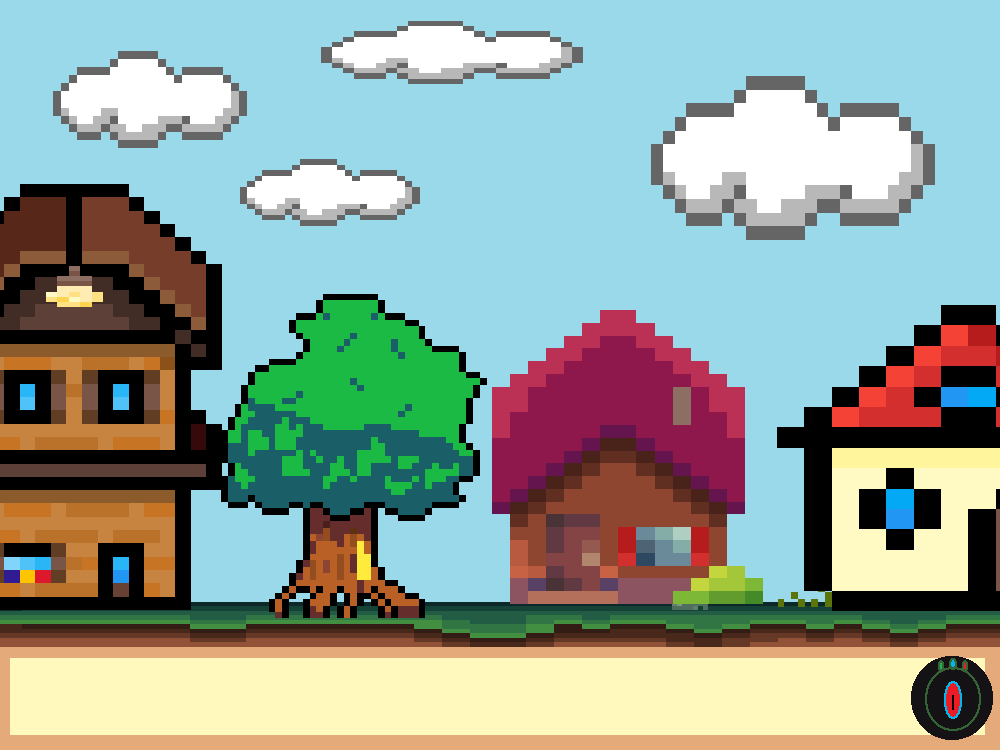
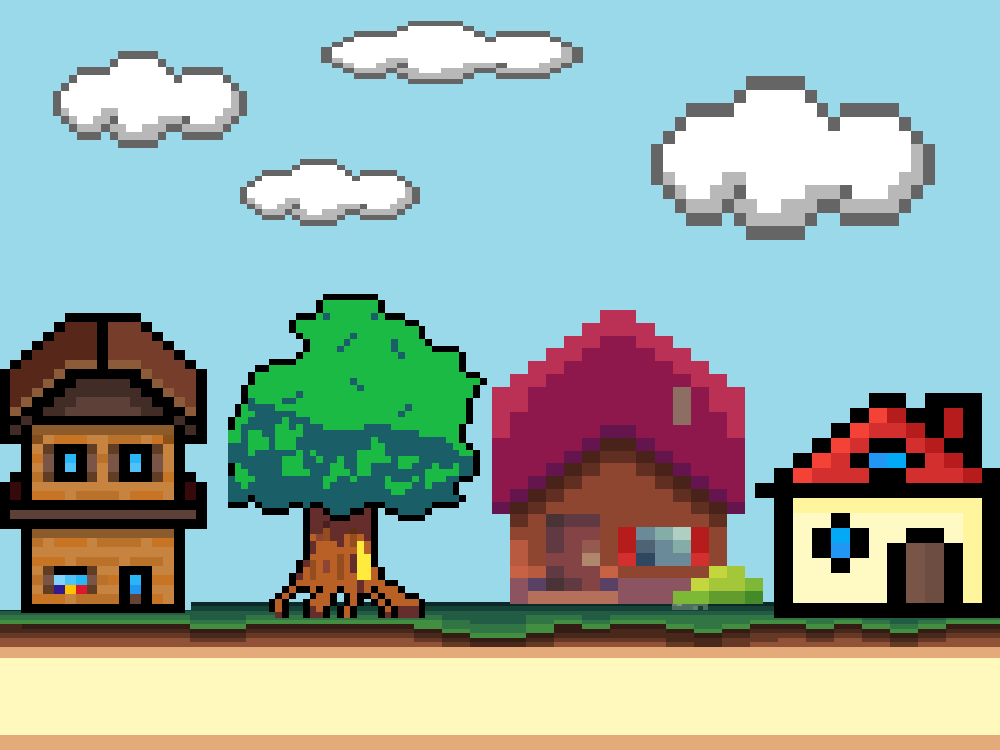
bug fix and bg move

diff --git a/main.py b/main.py
@@ -146,6 +146,7 @@ boss_4 = False
 
 #_ setting vars
 bg = pygame.image.load("pyg/bg1.png")
+bg_x = 0
 
 bs = pygame.mixer.Sound("pyg/bullet.mp3")
 dd = pygame.mixer.Sound("pyg/hit.mp3")
@@ -310,7 +311,6 @@ bullets = []
 
 #_ clock
 clock = pygame.time.Clock()
-clock.tick(18)
 
 
 #_ blow
@@ -548,7 +548,11 @@ def zaptack(zap_x, zap_y):
 #_ display update
 def updater():
     if d != 7 and d != 21 and d != 40 and d != 61 and not maze and d != 151:
-        screen.blit(bg, (0, 0))
+        screen.blit(bg, (bg_x, 0))
+        if bg_x > 0:
+            screen.blit(bg, (bg_x - 1000, 0))
+        else:
+            screen.blit(bg, (bg_x + 1000, 0))
         for bul in bullets:
             bul.draw(screen)
         enemy.draw(screen)
@@ -791,6 +795,7 @@ while True:
         mjp = 12
         spid.jumpcount = mjp
     if d == 41:
+        s = 0
         spid.y = 565
         spid.x = 500
         enemy.y = 565
@@ -1124,8 +1129,8 @@ while True:
                     pygame.mixer.music.play(-1)
                 if birdie.tr <= 1:
                     d = 10
-                rt = 0
-                birdie.tr += 1
+                    rt = 0
+                    birdie.tr += 1
         #_ delete out of map bullet
         else:
             try:
@@ -1352,11 +1357,15 @@ while True:
                 game_over = True
                 maze = False
                 spid.x = 0
+                pygame.mixer.music.load("pyg/Mus_chokedup.oga")
+                pygame.mixer.music.play(-1)
             if score >= 10:
                 justS = True
                 solved = True
                 maze = False
                 game_over = True
+                pygame.mixer.music.load("pyg/Mus_chokedup.oga")
+                pygame.mixer.music.play(-1)
             xsh += xs_change
             ysh += ys_change
             snake_Head = [xsh, ysh]
@@ -1368,6 +1377,8 @@ while True:
                     game_over = True
                     maze = False
                     spid.x = 0
+                    pygame.mixer.music.load("pyg/Mus_chokedup.oga")
+                    pygame.mixer.music.play(-1)
             foodhitbox = pygame.Rect(foodx, foody, snake_block, snake_block)
             if pygame.Rect.colliderect(foodhitbox, pygame.Rect(xsh, ysh, snake_block, snake_block)):
                 foodx = round(random.randrange(0, 1000 - snake_block) / 10.0) * 10.0
@@ -1451,6 +1462,8 @@ while True:
                 spid.x = 0
                 maze = False
                 game_over = True
+                pygame.mixer.music.load("pyg/Mus_chokedup.oga")
+                pygame.mixer.music.play(-1)
             if field[yp//block][xp//block] == 0:
                 smell = 0
             if field[yp//block][xp//block] == 2:
@@ -1459,11 +1472,15 @@ while True:
                 spid.x = 0
                 maze = False
                 game_over = True
+                pygame.mixer.music.load("pyg/Mus_chokedup.oga")
+                pygame.mixer.music.play(-1)
             if field[yp//block][xp//block] == 4:
                 justS = True
                 solved = True
                 maze = False
                 game_over = True
+                pygame.mixer.music.load("pyg/Mus_chokedup.oga")
+                pygame.mixer.music.play(-1)
             clock.tick(speed)
 
     #_ boss room 1
@@ -1478,6 +1495,7 @@ while True:
 
     #_ boss room 2
     if boss and room == 2:
+        d = 0
         if flyingBoss.pos == 0:
             if flyingBoss.x + flyingBoss.vel <= -200:
                 flyingBoss.x += flyingBoss.vel
@@ -1833,24 +1851,47 @@ while True:
         frag += 1
         spid.score += 9
 
-    if keys[pygame.K_RIGHT] and spid.x + spid.vel <= 1000 - 60 and not maze:
+    if keys[pygame.K_RIGHT] and spid.x + spid.vel <= 1000 - spid.width and not maze and not isWeb:
         spid.x += spid.vel
         spid.right = True
         spid.left = False
         spid.last = 0
-    elif keys[pygame.K_LEFT] and spid.x - spid.vel >= 0 and not isWeb and not maze:
+        if room != 5:
+            bg_x -= spid.vel
+            if bg_x <= -1000:
+                bg_x = 0
+            if d == 5:
+                bx -= 2
+            enemy.x -= 1
+            birdie.x -= 2
+        else:
+            bg_x = 0
+    if keys[pygame.K_LEFT] and spid.x - spid.vel >= 0 and not isWeb and not maze:
         spid.x -= spid.vel
         spid.right = False
         spid.left = True
         spid.last = 1
+        if room != 5:
+            bg_x += spid.vel
+            if bg_x >= 1000:
+                bg_x = 0
+            if d == 5:
+                bx += 2
+            enemy.x += 1
+            birdie.x += 2
+        else:
+            bg_x = 0
     else:
-        if spid.left:
-            spid.last = 1
-        elif spid.right:
-            spid.last = 0
-        spid.left = False
-        spid.right = False
-        spid.walkC = 0
+        if keys[pygame.K_RIGHT] and spid.x + spid.vel <= 1000 - spid.width and not maze and not isWeb:
+            q = 1
+        else:
+            if spid.left:
+                spid.last = 1
+            elif spid.right:
+                spid.last = 0
+            spid.left = False
+            spid.right = False
+            spid.walkC = 0
 
     if keys[pygame.K_SPACE] and not maze:
         facing = 1
@@ -1862,7 +1903,7 @@ while True:
                 Bullet(round(spid.x + spid.width // 2), round(spid.y + spid.height // 2), 5, facing))
 
     if not spid.isjump and not isWeb and not maze:
-        if keys[pygame.K_UP]:
+        if keys[pygame.K_UP] and s < 100:
             spid.isjump = True
     elif spid.isjump and not maze:
         if spid.jumpcount >= -mjp:
@@ -1902,3 +1943,4 @@ while True:
 
     #_ update display
     updater()
+    clock.tick(72)
